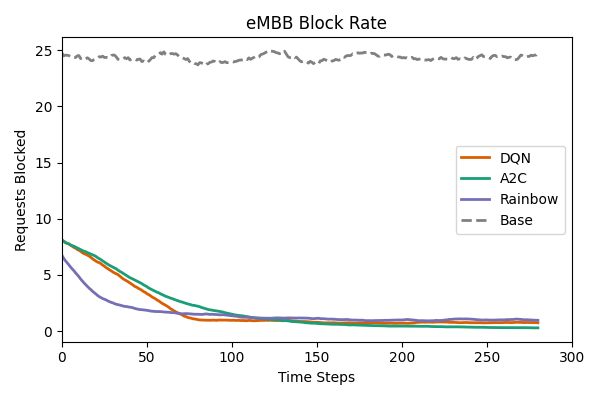
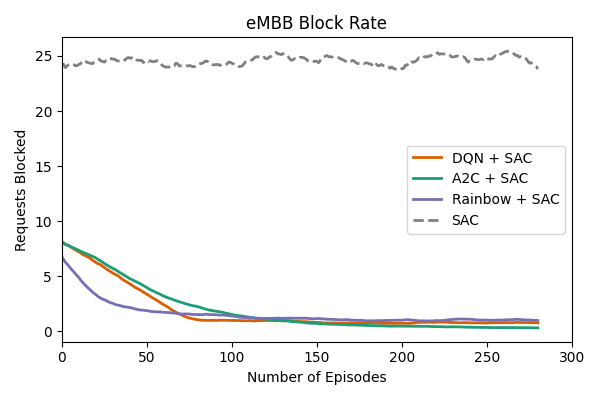
Stable build (30Apr)

diff --git a/Compare.py b/Compare.py
@@ -200,22 +200,22 @@ def plot_results():
     rdqn_mean, rdqn_std = adjust_std_and_smooth(mean_rdqn_urllc_blocks, std_rdqn_urllc_blocks)
     random_mean, random_std = adjust_std_and_smooth(mean_random_urllc_blocks, std_random_urllc_blocks)
 
-    plt.plot(dqn_mean, label='DQN', color='#d95f02', linewidth=2)  # DQN
+    plt.plot(dqn_mean, label='DQN + SAC', color='#d95f02', linewidth=2)  # DQN
     if SHOW_STD_DEV:
         plt.fill_between(range(len(dqn_mean)), dqn_mean - dqn_std, dqn_mean + dqn_std, color='#d95f02', alpha=0.1)
-    plt.plot(a2c_mean, label='A2C', color='#1b9e77', linewidth=2)  # A2C
+    plt.plot(a2c_mean, label='A2C + SAC', color='#1b9e77', linewidth=2)  # A2C
     if SHOW_STD_DEV:
         plt.fill_between(range(len(a2c_mean)), a2c_mean - a2c_std, a2c_mean + a2c_std, color='#1b9e77', alpha=0.1)
-    plt.plot(rdqn_mean, label='Rainbow', color='#7570b3', linewidth=2)  # Rainbow
+    plt.plot(rdqn_mean, label='Rainbow + SAC', color='#7570b3', linewidth=2)  # Rainbow
     if SHOW_STD_DEV:
         plt.fill_between(range(len(rdqn_mean)), rdqn_mean - rdqn_std, rdqn_mean + rdqn_std, color='#7570b3', alpha=0.1)
-    plt.plot(random_mean, label='Base', color='gray', linestyle='--', linewidth=2)  # Base
+    plt.plot(random_mean, label='SAC', color='gray', linestyle='--', linewidth=2)  # SAC
     if SHOW_STD_DEV:
         plt.fill_between(range(len(random_mean)), random_mean - random_std, random_mean + random_std, color='gray', alpha=0.1)
 
     plt.xlim(0, max_length)  # Set x-axis limit to max_length
     plt.title("URLLC Block Rate")
-    plt.xlabel("Time Steps")
+    plt.xlabel("Number of Episodes")
     plt.ylabel("Requests Blocked")
     plt.yscale("linear")
     plt.legend()
@@ -230,23 +230,23 @@ def plot_results():
     rdqn_mean, rdqn_std = adjust_std_and_smooth(mean_rdqn_urllc_sla, std_rdqn_urllc_sla)
     random_mean, random_std = adjust_std_and_smooth(mean_random_urllc_sla, std_random_urllc_sla)
 
-    plt.plot(dqn_mean, label='DQN', color='#d95f02', linewidth=2)  # DQN
+    plt.plot(dqn_mean, label='DQN + SAC', color='#d95f02', linewidth=2)  # DQN
     if SHOW_STD_DEV:
         plt.fill_between(range(len(dqn_mean)), dqn_mean - dqn_std, dqn_mean + dqn_std, color='#d95f02', alpha=0.1)
-    plt.plot(a2c_mean, label='A2C', color='#1b9e77', linewidth=2)  # A2C
+    plt.plot(a2c_mean, label='A2C + SAC', color='#1b9e77', linewidth=2)  # A2C
     if SHOW_STD_DEV:
         plt.fill_between(range(len(a2c_mean)), a2c_mean - a2c_std, a2c_mean + a2c_std, color='#1b9e77', alpha=0.1)
-    plt.plot(rdqn_mean, label='Rainbow', color='#7570b3', linewidth=2)  # Rainbow
+    plt.plot(rdqn_mean, label='Rainbow + SAC', color='#7570b3', linewidth=2)  # Rainbow
     if SHOW_STD_DEV:
         plt.fill_between(range(len(rdqn_mean)), rdqn_mean - rdqn_std, rdqn_mean + rdqn_std, color='#7570b3', alpha=0.1)
-    plt.plot(random_mean, label='Base', color='gray', linestyle='--', linewidth=2)  # Base
+    plt.plot(random_mean, label='SAC', color='gray', linestyle='--', linewidth=2)  # SAC
     if SHOW_STD_DEV:
         plt.fill_between(range(len(random_mean)), random_mean - random_std, random_mean + random_std, color='gray', alpha=0.1)
 
     plt.xlim(0, max_length)  # Set x-axis limit to max_length
     plt.title("URLLC SLA Satisfaction Rate")
-    plt.xlabel("Time Steps")
-    plt.ylabel("SLA Violations")
+    plt.xlabel("Number of Episodes")
+    plt.ylabel("SLA Satisfaction (%)")
     plt.yscale("linear")
     plt.legend()
     plt.tight_layout()
@@ -260,22 +260,22 @@ def plot_results():
     rdqn_mean, rdqn_std = adjust_std_and_smooth(mean_rdqn_embb_blocks, std_rdqn_embb_blocks)
     random_mean, random_std = adjust_std_and_smooth(mean_random_embb_blocks, std_random_embb_blocks)
 
-    plt.plot(dqn_mean, label='DQN', color='#d95f02', linewidth=2)  # DQN
+    plt.plot(dqn_mean, label='DQN + SAC', color='#d95f02', linewidth=2)  # DQN
     if SHOW_STD_DEV:
         plt.fill_between(range(len(dqn_mean)), dqn_mean - dqn_std, dqn_mean + dqn_std, color='#d95f02', alpha=0.1)
-    plt.plot(a2c_mean, label='A2C', color='#1b9e77', linewidth=2)  # A2C
+    plt.plot(a2c_mean, label='A2C + SAC', color='#1b9e77', linewidth=2)  # A2C
     if SHOW_STD_DEV:
         plt.fill_between(range(len(a2c_mean)), a2c_mean - a2c_std, a2c_mean + a2c_std, color='#1b9e77', alpha=0.1)
-    plt.plot(rdqn_mean, label='Rainbow', color='#7570b3', linewidth=2)  # Rainbow
+    plt.plot(rdqn_mean, label='Rainbow + SAC', color='#7570b3', linewidth=2)  # Rainbow
     if SHOW_STD_DEV:
         plt.fill_between(range(len(rdqn_mean)), rdqn_mean - rdqn_std, rdqn_mean + rdqn_std, color='#7570b3', alpha=0.1)
-    plt.plot(random_mean, label='Base', color='gray', linestyle='--', linewidth=2)  # Base
+    plt.plot(random_mean, label='SAC', color='gray', linestyle='--', linewidth=2)  # SAC
     if SHOW_STD_DEV:
         plt.fill_between(range(len(random_mean)), random_mean - random_std, random_mean + random_std, color='gray', alpha=0.1)
 
     plt.xlim(0, max_length)  # Set x-axis limit to max_length
     plt.title("eMBB Block Rate")
-    plt.xlabel("Time Steps")
+    plt.xlabel("Number of Episodes")
     plt.ylabel("Requests Blocked")
     plt.yscale("linear")
     plt.legend()
@@ -290,23 +290,23 @@ def plot_results():
     rdqn_mean, rdqn_std = adjust_std_and_smooth(mean_rdqn_embb_sla, std_rdqn_embb_sla)
     random_mean, random_std = adjust_std_and_smooth(mean_random_embb_sla, std_random_embb_sla)
 
-    plt.plot(dqn_mean, label='DQN', color='#d95f02', linewidth=2)  # DQN
+    plt.plot(dqn_mean, label='DQN + SAC', color='#d95f02', linewidth=2)  # DQN
     if SHOW_STD_DEV:
         plt.fill_between(range(len(dqn_mean)), dqn_mean - dqn_std, dqn_mean + dqn_std, color='#d95f02', alpha=0.1)
-    plt.plot(a2c_mean, label='A2C', color='#1b9e77', linewidth=2)  # A2C
+    plt.plot(a2c_mean, label='A2C + SAC', color='#1b9e77', linewidth=2)  # A2C
     if SHOW_STD_DEV:
         plt.fill_between(range(len(a2c_mean)), a2c_mean - a2c_std, a2c_mean + a2c_std, color='#1b9e77', alpha=0.1)
-    plt.plot(rdqn_mean, label='Rainbow', color='#7570b3', linewidth=2)  # Rainbow
+    plt.plot(rdqn_mean, label='Rainbow + SAC', color='#7570b3', linewidth=2)  # Rainbow
     if SHOW_STD_DEV:
         plt.fill_between(range(len(rdqn_mean)), rdqn_mean - rdqn_std, rdqn_mean + rdqn_std, color='#7570b3', alpha=0.1)
-    plt.plot(random_mean, label='Base', color='gray', linestyle='--', linewidth=2)  # Base
+    plt.plot(random_mean, label='SAC', color='gray', linestyle='--', linewidth=2)  # SAC
     if SHOW_STD_DEV:
         plt.fill_between(range(len(random_mean)), random_mean - random_std, random_mean + random_std, color='gray', alpha=0.1)
 
     plt.xlim(0, max_length)  # Set x-axis limit to max_length
     plt.title("eMBB SLA Satisfaction Rate")
-    plt.xlabel("Time Steps")
-    plt.ylabel("SLA Violations")
+    plt.xlabel("Number of Episodes")
+    plt.ylabel("SLA Satisfaction (%)")
     plt.yscale("linear")
     plt.legend()
     plt.tight_layout()
